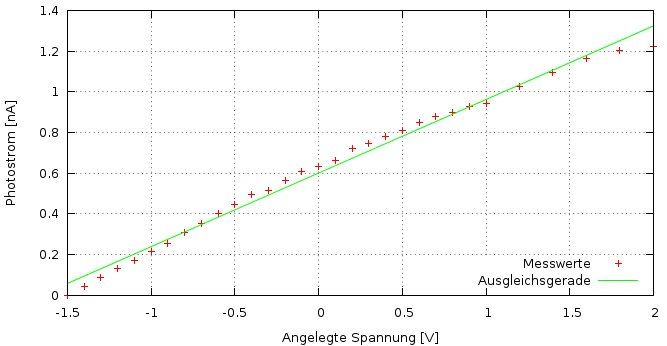
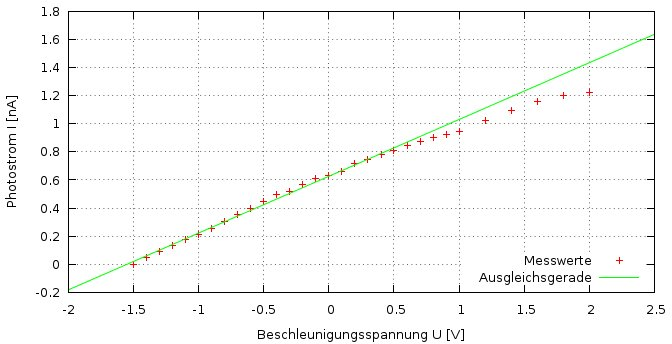
geändert:   16.500 Photoeffekt/daten/daten2 	geändert:   16.500 Photoeffekt/daten/ploot 	geändert:   16.500 Photoeffekt/pics/4werte.jpg 	geändert:   16.500 Photoeffekt/pics/wurzel404.jpg 	geändert:   16.500 Photoeffekt/pics/wurzel407.jpg 	gelöscht:    16.500 Photoeffekt/pics/wurzel4358.jpg 	geändert

diff --git a/16.500 Photoeffekt/protokoll.tex b/16.500 Photoeffekt/protokoll.tex
@@ -126,7 +126,7 @@ Aufteilung der einzelnen Spektrallinien, welche eine Photokathode bestrahlen, di
 die Photokathode immer mit monochromatischem Licht beleuchtet. 
 
 Für vier Spektrallinien wird der Photostrom in Abhängigkeit der Bremsspannung gemessen, welche in einem Bereich von -2V $\leq \,U \, \leq 2$V
-liegt. Für die Wellenlänge $\lambda$ = 438,8 nm wird zusätzlich der Bereich von -20V $\leq \,U \, \leq$ 20V gegen den Photostrom gemessen.
+liegt. Für die Wellenlänge $\lambda$ = 578 nm wird zusätzlich der Bereich von -20V $\leq \,U \, \leq$ 20V gegen den Photostrom gemessen.
 
 
 \section{Auswertung}
@@ -134,21 +134,22 @@ Um die $I_{pk} \propto U^2$
 Gesetzmäßigkeit nachzuweisen, wird die Wurzel des Stroms gegen die Spannung aufgetragen.
 
 \begin{figure}[H]
+\includegraphics[width=0.8\textwidth]{pics/wurzel578.jpg}
+\caption{Photostrom gegen die Spannung aufgetragen - 578nm}
+\end{figure}
+
+\begin{figure}[H]
 \includegraphics[width=0.8\textwidth]{pics/wurzel404.jpg}
 \caption{Photostrom gegen die Spannung aufgetragen - 404,7nm}
 \end{figure}
 
-\begin{figure}[H]
-\includegraphics[width=0.8\textwidth]{pics/wurzel407.jpg}
-\caption{Photostrom gegen die Spannung aufgetragen - 407,8nm}
-\end{figure}
 \newpage
 Verwendet wurden dabei folgende Messwerte:
 \renewcommand{\arraystretch}{.95}
 \begin{table}[H]
 \begin{tabular}{|c|c!{\vrule width 1.5pt} c|c!{\vrule width 1.5pt} c|c!{\vrule width 1.5pt} c|c|}
 \hline
-435.8nm &  & 404.7nm &  & 407.8nm & & 546.1nm & \\ \hline
+578nm &  & 404.7nm &  & 407.8nm & & 546.1nm & \\ \hline
 V	&		A&		V&		A&	V&A			&V	&A \\ \hline
 -1.0 & 0 	& -1.5 & 0 		& -1.1 & 0 		& -0.6&0 \\ \hline
 -0.9 & 0.01 & -1.4 & 0.002 	& -1.0 & 0.008 	& -0.5&0 \\ \hline
@@ -195,8 +196,8 @@ V	&		A&		V&		A&	V&A			&V	&A \\ \hline
 \end{table}
 
 \begin{figure}[H]
-\includegraphics[width=0.8\textwidth]{pics/wurzel4358.jpg}
-\caption{Photostrom gegen die Spannung aufgetragen - 435,8nm}
+\includegraphics[width=0.8\textwidth]{pics/wurzel407.jpg}
+\caption{Photostrom gegen die Spannung aufgetragen - 407,8nm}
 \end{figure}
 
 \begin{figure}[H]
@@ -204,32 +205,54 @@ V	&		A&		V&		A&	V&A			&V	&A \\ \hline
 \caption{Photostrom gegen die Spannung aufgetragen - 546,1nm}
 \end{figure}
 
-Als Y-Achsenabschnitt liest sich dann die Spannung ab, ab der ein Photostrom gemessen werden kann:
+Legt man eine Regressionsgrade $f(x) = mx + b$ durch die linearen Bereiche des Graphen, so lassen sich als b dann folgende Gegenspannungen ablesen.
 
 \begin{align*}
-0.600\text{V}	=	404.7\text{nm}\\
-0.486\text{V}	=	407.8\text{nm}\\
-0.222\text{V}	=	435.8\text{nm}\\
-0.386\text{V}	=	546.1\text{nm}\\
+(0.627 \pm0.004)\text{V}	=	404.7\text{nm}\\
+%a               = 0.40451          +/- 0.005221     (1.291%)
+%b               = 0.626529         +/- 0.004044     (0.6455%)
+(0.507\pm 0.005)\text{V}	=	407.8\text{nm}\\
+%a               = 0.417371         +/- 0.007905     (1.894%)
+%b               = 0.507056         +/- 0.00461      (0.9091%)
+(0.39\pm0.01)\text{V}	=	546.1\text{nm}\\
+%a               = 0.80131          +/- 0.03409      (4.254%)
+%b               = 0.39486          +/- 0.009938     (2.517%)
+(0.227\pm0.002)\text{V}	=	578\text{nm}\\
+%a					0.203153         +/- 0.003779     (1.86%)
+%b               =   0.226654         +/- 0.00207      (0.9132%)
 \end{align*}
 
-Für Licht der Wellenlänge 435,8nm wurde der Photostrom über einen weiteren Spannungsbereich aufgenommen. Der Plot ergab folgendes Diagram:
+Für Licht der Wellenlänge 578 nm wurde der Photostrom über einen weiteren Spannungsbereich aufgenommen. Der Plot ergab folgendes Diagram:
 
 \begin{figure}[H]
 \includegraphics[width=0.6\textwidth]{pics/gesamt.jpg}
-\caption{Photostrom und Spannung für 435,8nm}
+\caption{Photostrom und Spannung für 578nm}
 \end{figure}
 
-Zunächst lässt sich festhalten, dass selbst bei negativen Beschleunigungsspannung bereits ein schwacher Phtotostrom messbar ist. Die liegt daran, dass die Elektronen im Metal, eine der Dirac-Verteilung entsprechende Energieverteilung haben und die Energie für einige der Elektronen ausreicht, um das Metal spontan zu verlassen und gegen das Gegenfeld anzulaufen. Der Kurvenverlauf in diesem Bereich stimmt auch sehr gut mit der Dirac-Kurve überein.\
-Sobald die Spannung größer wird, beginnt die Kurve zu steigen. Die liegt daran, dass zunehmend mehr Elektronen vom elektrischen Feld eingefangen und zur Anode transportiert werden. Die Steigung der Kurve ist hier nahezu linear.\\
-Bei höheren Spannung stellt sich schließlich eine Sättigung des Stromes ein. Dies kennzeichnet den Bereich, ab dem quasi alle Elektronen, die das Metal verlassen auch durch das elektrische Feld zur Anode gelangen. Bei noch größeren Spannungen kann ihre Anzahl nicht weiter steigen.
-
-Die vier Werte, die sich aus der Gegenspannung und der Frequenz zusammensetzen, ergeben leider keine schöne Gerade. Möglicherweise hat sich aus den vorherigen Rechnungen ein Folgefehler eingeschlichen, so dass diese Auswertung kein brauchbares Ergebnis liefert. (Ich werde das nochmal am Wochenende nachprüfen.)
+Um das Verhältnis $\frac{h}{e_0}$ zu bestimmen, stellt man Gleichung \eqref{eq_photoerweitert} nach:
+\begin{align*}
+U_g = \frac{h}{e_0}\nu - \frac{A_k}{e_0}
+\end{align*}
+um und plottet die zuvor erhaltenen Gegenspannungen $U_k$ gegen die zugehörigen Frequenzen $\nu$. 
 
 \begin{figure}[H]
 \includegraphics[width=0.6\textwidth]{pics/4werte.jpg}
 \caption{Gegenspannung gegen Frequenz}
 \end{figure} 
+Lineare Regression mit einer Geraden der Form $f(\nu)=m\nu + b$ ergibt für die Konstanten m und b:
+
+\begin{align*}
+m&=\frac{h}{e_0}= (1.31561 \pm 0.4)\cdot10^{-15}\\
+b&=A_k= -(0.40 \pm 0.26) eV
+\end{align*}
+
+\section{Diskussion}
+Zunächst lässt sich festhalten, dass selbst bei negativen Beschleunigungsspannung bereits ein schwacher Phtotostrom messbar ist. Die liegt daran, dass die Elektronen im Metal, eine der Dirac-Verteilung entsprechende Energieverteilung haben und die Energie für einige der Elektronen ausreicht, um das Metal spontan zu verlassen und gegen das Gegenfeld anzulaufen. Der Kurvenverlauf in diesem Bereich stimmt auch sehr gut mit der Dirac-Kurve überein.\
+Sobald die Spannung größer wird, beginnt die Kurve zu steigen. Die liegt daran, dass zunehmend mehr Elektronen vom elektrischen Feld eingefangen und zur Anode transportiert werden. Die Steigung der Kurve ist hier nahezu linear.\\
+Bei höheren Spannung stellt sich schließlich eine Sättigung des Stromes ein. Dies kennzeichnet den Bereich, ab dem quasi alle Elektronen, die das Metal verlassen auch durch das elektrische Feld zur Anode gelangen. Bei noch größeren Spannungen kann ihre Anzahl nicht weiter steigen. Dieser Wert wird jedoch nur Asymptotisch angenähert, da die Elektronen in verschiedenen Richtungen aus dem Metall geschlagen werden und sich daher einige zunächst von der Auffangelektrode wegbewegen. Für diese ist eine höhere Beschleunigungsspannung erforderlich.
+
+Der berechnete Wert $\frac{h}{e_0}$ weicht um fast 70\% vom Literaturwert ab. Dies ist darauf zurück zu führen, dass die Messwerte relativ weit auseinanderliegen. Da die Photozellen sehr empfindlich auf Lichteinfall reagieren hätte der Versuch in absoluter Dunkelheit stattfinden müssen. Es wirkten dennoch immer wieder externe Lichtquellen auf die Messung ein und auch die Quecksilberlampe hatte mehrere Intensitätsschwankungen, so dass die größeren Abweichungen zu erklären sind.
+
 %\section{Diskussion}
 
 % ========================================
